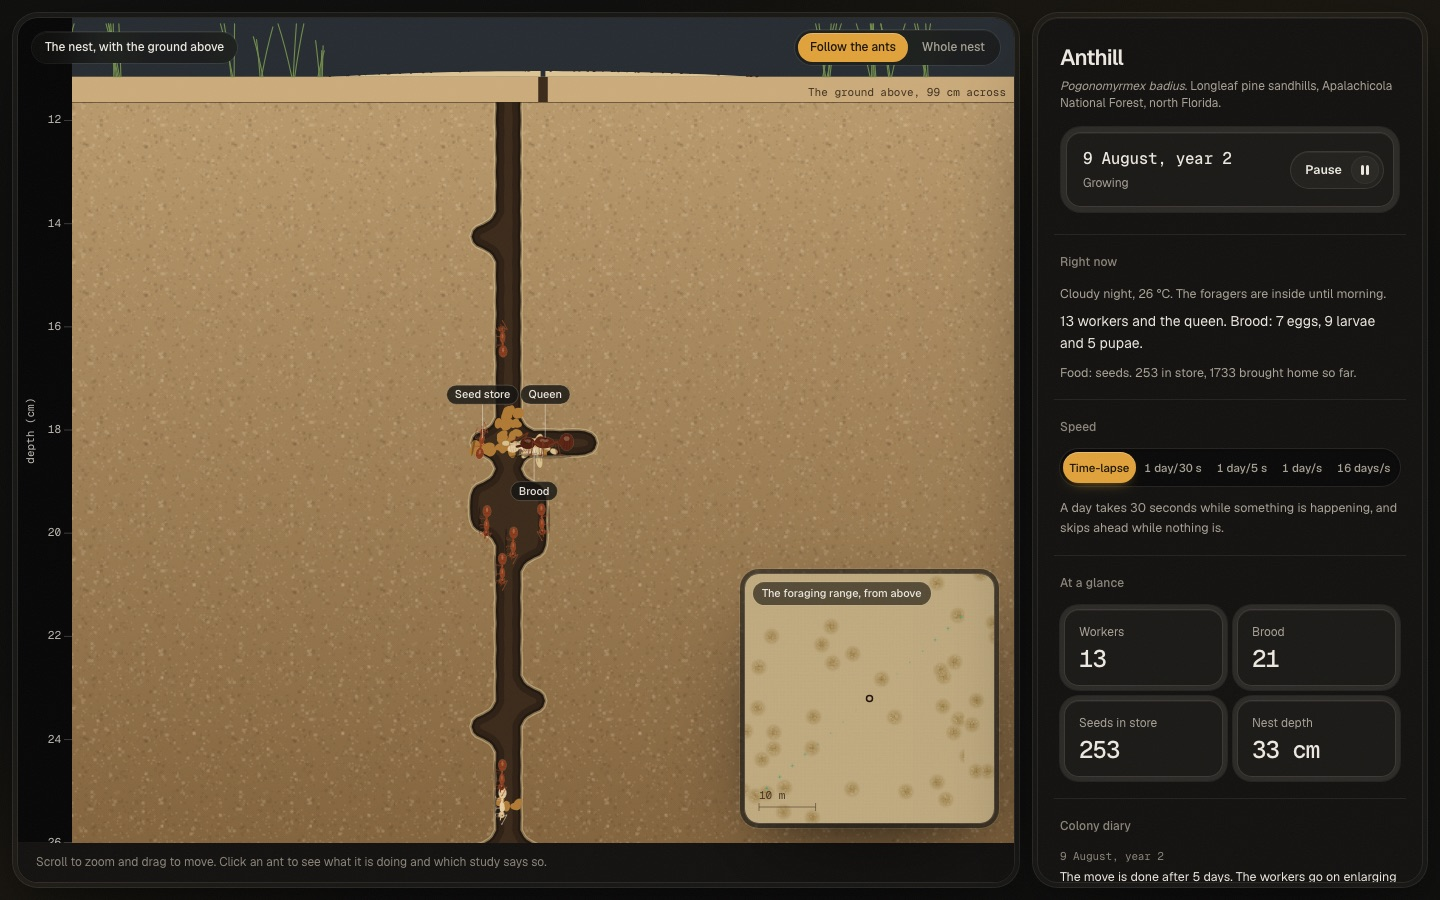
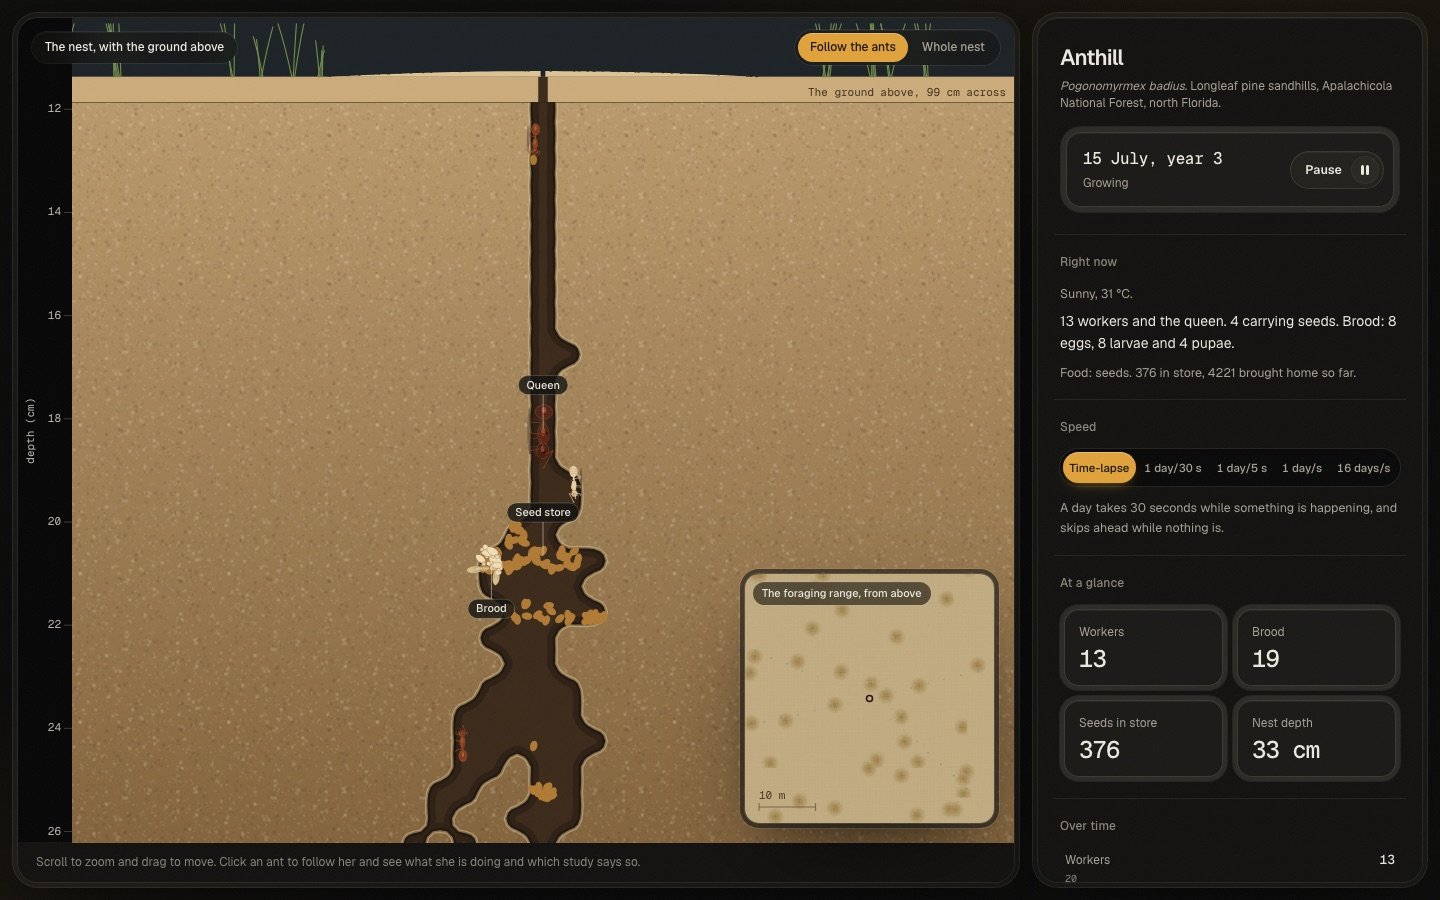
docs(readme): a fresh screenshot of a colony in today's simulator

diff --git a/README.md b/README.md
@@ -20,7 +20,7 @@ No ant holds a map, a plan or any knowledge of the nest as a whole. Every tunnel
 screen is what individual ants left behind while following local rules, and nobody is in charge
 of them, including you.
 
-![A colony in its second summer, with the queen, brood and seed store labelled](docs/images/watch.jpg)
+![A colony in its third summer, with the queen, brood and seed store labelled](docs/images/watch.jpg)
 
 ## Every number says where it came from
 
